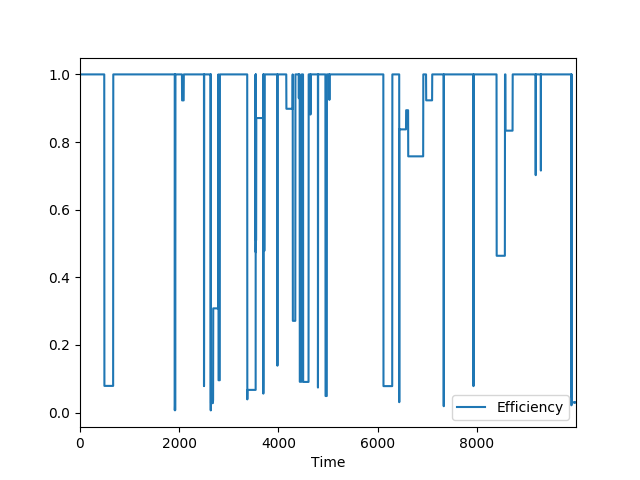
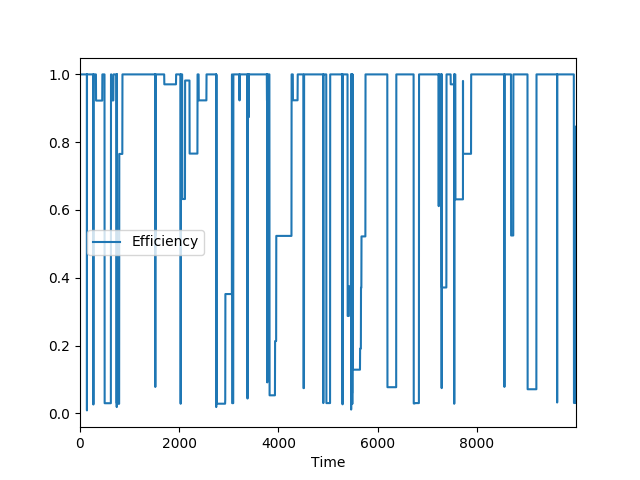
Searching for real data errors and trying histogram filter with wrong adjancency

Changed region(s): [[0.0938, 0.125, 0.9062, 0.875], [0.0625, 0.8438, 0.125, 0.875]]

diff --git a/HistogramFilter/EvaluateRealAdj.py b/HistogramFilter/EvaluateRealAdj.py
@@ -53,26 +53,48 @@ if __name__ == "__main__" :
     #if len(sys.argv) < 2:
     #    print("Manca il nome del file json")
     #    sys.exit(1)
-
     conf_file = "config.json"
     config = open_json(conf_file)
+    conf_real_adj_file="config_error.json"
+    config_error=open_json(conf_real_adj_file)
     df = pd.DataFrame(columns=['Time', 'Efficiency'])
+    df_error=pd.DataFrame(columns=['Time', 'Efficiency_error'])
 
-    data = set_up(config)  #  HF_input
+    data = set_up(config)  # HF_input
+    data_error=set_up(config_error)
     i = 0
     dictionary_rooms = dictionary_room(config)
-    n_correct = 0
+    differencies =[]
+    time=[]
     while i < len(data.index):
         max_room = found_max(data.iloc[i], config)
+        max_room_error=found_max(data_error.iloc[i], config_error)
         state = data.loc[i, dictionary_rooms[data.loc[i, 'Room']]]/max_room
+        state_error = data_error.loc[i, dictionary_rooms[data_error.loc[i, 'Room']]]/max_room_error
         temp = {'Time': data.loc[i, 'Time'],'Efficiency': state}
+        temp_error={'Time': data_error.loc[i, 'Time'],'Efficiency_error': state_error}
+        df_error = df_error.append(temp_error, ignore_index=True)
         df = df.append(temp, ignore_index=True)
+        differencies.append(state-state_error)
+        if(state-state_error<-0.5):
+            print(max_room)
+            print(max_room_error)
+            print(str(data.loc[i, dictionary_rooms[data.loc[i, 'Room']]]) + " state "+str(state) +"  "+ str(i))
+            print(str(data_error.loc[i, dictionary_rooms[data_error.loc[i, 'Room']]]) + " state_error "+str(state_error) +"  "+ str(i))
+        time.append(data.loc[i, 'Time'])
         i += 1
 
     df.to_csv(config["info"]["input_file_path"]+config["info"]["output_evaluation"], index=False)
+    df_error.to_csv(config_error["info"]["input_file_path"]+config_error["info"]["output_evaluation"], index=False)
+    fig, axes = plt.subplots(2)
+    fig.set_size_inches(12,9)
+    axes[0].set(xlabel='Time', ylabel='Efficiency')
+    df.plot(kind='line', x='Time', y='Efficiency',ax=axes[0])
+    df_error.plot(kind='line', x='Time', y='Efficiency_error',ax=axes[0])
+    axes[1].set(xlabel='Time', ylabel='Difference\nSimulation - Real')
+    axes[1].plot(time,differencies)
+    plt.show()
+    fig.savefig(config_error["info"]["input_file_path"]+config_error["info"]["img_evaluation"])
 
-    ax = plt.gca()
-    df.plot(kind='line', x='Time', y='Efficiency', ax=ax)
-    plt.savefig(config["info"]["input_file_path"]+config["info"]["img_evaluation"])
 
 

diff --git a/Create_pattern/DesignPattern.py b/Create_pattern/DesignPattern.py
@@ -63,16 +63,16 @@ if __name__ == '__main__':
                 if old_chamber != new_chamber and old_chamber != 0 and new_chamber != 0:
                     probably_adj_matrix[old_chamber - 1][new_chamber - 1] += 1  # add symmetrical adjacencies
                     probably_adj_matrix[new_chamber - 1][old_chamber - 1] += 1
-            y_differences.append(adj_difference(adj_matrix, probably_adj_matrix))
-            x_time.append(int(float(r[0])))
+            #y_differences.append(adj_difference(adj_matrix, probably_adj_matrix))
+            #x_time.append(int(float(r[0])))
         # if i%200 == 0 or i==1:
         # print("Row: "+str(i)+" difference:"+str(adj_difference(adj_matrix,probably_adj_matrix)))
     for i,r in enumerate(rooms):
         print(probably_adj_matrix[i])
         print(adj_matrix[i])
-    plt.xlabel('time(s)')
-    plt.ylabel('adj_difference')
-    plt.plot(x_time, y_differences)
+    #plt.xlabel('time(s)')
+    #plt.ylabel('adj_difference')
+    #plt.plot(x_time, y_differences)
     # x_linspace=numpy.linspace(0, len(HF_out)-1,len(HF_out)-1)
     # popt= curve_fit(func, x_linspace, y_differences)
     # plt.plot(x_linspace, func(x_linspace, *popt[0]))

diff --git a/Create_pattern/Error_signal_file.py b/Create_pattern/Error_signal_file.py
@@ -1,0 +1,17 @@
+import utility
+
+files=[]
+files.append(utility.read_file("/home/riccardo/PycharmProjects/sensor-pattern-analysis/Create_pattern/RealRoomSensor/atrium.csv"))
+files.append(utility.read_file("/home/riccardo/PycharmProjects/sensor-pattern-analysis/Create_pattern/RealRoomSensor/toilet.csv"))
+files.append(utility.read_file("/home/riccardo/PycharmProjects/sensor-pattern-analysis/Create_pattern/RealRoomSensor/bedroom.csv"))
+files.append(utility.read_file("/home/riccardo/PycharmProjects/sensor-pattern-analysis/Create_pattern/RealRoomSensor/kitchen.csv"))
+files.append(utility.read_file("/home/riccardo/PycharmProjects/sensor-pattern-analysis/Create_pattern/RealRoomSensor/livingroom.csv"))
+errors=0
+wrong_rows={"Atrium":[],"Kitchen":[],"Livingroom":[],"Toilet":[],"Bedroom":[]}
+for file in files:
+    for i,r in file.iterrows():
+        if i!=0:
+            if r["Value"]==file["Value"][i-1]:
+                errors+=1
+                wrong_rows[r["Class"]].append(i+2)  # index start from row 2
+print(wrong_rows)  # all are rows between two days

diff --git a/HistogramFilter/Main.py b/HistogramFilter/Main.py
@@ -60,7 +60,7 @@ if __name__ == "__main__":
     #    print("Manca il nome del file json")
     #    sys.exit(1)
 
-    conf_file = "config.json"
+    conf_file = "config_error.json"
     config = open_json(conf_file)
 
     belief, rf = system_set_up(config) # carica e inizializza
